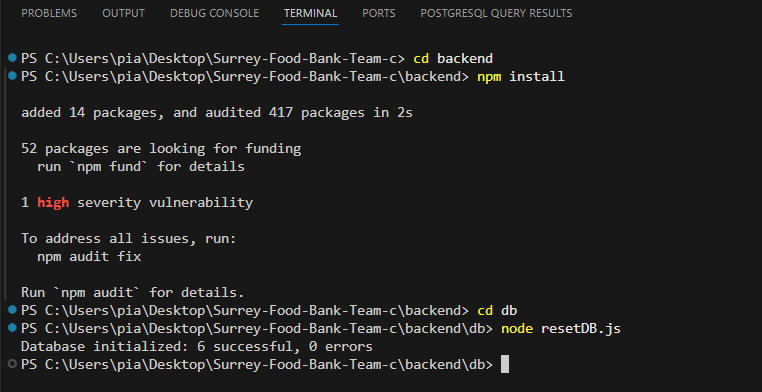
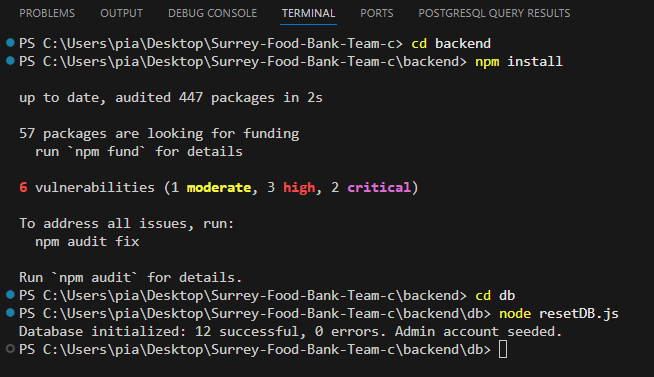
Removed unused files, removed console.log and commented code, and updated README images

diff --git a/frontend/src/components/bookingForm.jsx b/frontend/src/components/bookingForm.jsx
@@ -60,7 +60,6 @@ export function BookingForm({ opened, onClose, onSubmit, onDeleteBooking, onDele
       return dayjs(values.start).isSame(dayjs(appt.appt_date), 'day') &&
         dayjs(appt.start_time, "HH:mm").format('HH:mm') === dayjs(values.start).format('HH:mm');
     });
-    // console.log(booking);
     return booking;
   };
 
@@ -69,7 +68,6 @@ export function BookingForm({ opened, onClose, onSubmit, onDeleteBooking, onDele
     try {
       const booking = await fetchBooking(clientUsername);
       const notes = booking.length > 0 ? (booking[0].booking_notes === null ? "No additional notes for this appointment." : booking[0].booking_notes) : "No additional notes for this appointment.";
-      // console.log("check1", booking);
       setClientNotes(notes);
     } catch (error) {
       console.error('Error fetching notes for client:', error);
@@ -81,7 +79,6 @@ export function BookingForm({ opened, onClose, onSubmit, onDeleteBooking, onDele
   const fetchBookingStatus = async (clientUsername) => {
     try {
       const booking = await fetchBooking(clientUsername);
-      // console.log(booking);
       const status = booking.length > 0 ? booking[0].booking_status : BOOKING_STATUS.DID_NOT_SHOW;
       return status;
     }
@@ -106,7 +103,6 @@ export function BookingForm({ opened, onClose, onSubmit, onDeleteBooking, onDele
 
   const handleUpdateNotes = async () => {
     try {
-      // console.log("check3", clientNotes);
       const res = await updateBookingNotes(token, dayjs(form.values.start).format('YYYY-MM-DD'), dayjs(form.values.start).format('HH:mm'), selectedClient, clientNotes);
       if (res && !res.error) {
         notifications.show({
@@ -163,8 +159,6 @@ export function BookingForm({ opened, onClose, onSubmit, onDeleteBooking, onDele
       const statuses = await Promise.all(
         bookedUsers.map(async (user) => [user, await fetchBookingStatus(user)])
       );
-
-      // console.log(statuses);
 
       setBookingStatuses(Object.fromEntries(statuses));
     };
@@ -326,7 +320,6 @@ export function BookingForm({ opened, onClose, onSubmit, onDeleteBooking, onDele
         <Tabs defaultValue="client-info" onChange={(value) => {
           if (value === 'appt-notes') {
             fetchNotesForClient(selectedClient);
-            // console.log(clientNotes);
           }
         }}>
           <Tabs.List>

diff --git a/frontend/src/pages/clientDashboard.jsx b/frontend/src/pages/clientDashboard.jsx
@@ -514,7 +514,6 @@ export default function ClientDashboard() {
             dayjs(modalCurrentMonth).endOf('month').format('YYYY-MM-DD')
         );
         setModalAllTimeslots(timeslots);
-        // console.log("check2");
     };
 
     const openStackPage = (page) => {
@@ -537,7 +536,6 @@ export default function ClientDashboard() {
         };
 
         checkTinyBundles().then(result => {
-            // console.log("check ", result.baby_or_pregnant);
             if (result.baby_or_pregnant) {
                 setTinyBundles(true);
             }
@@ -550,7 +548,6 @@ export default function ClientDashboard() {
         const fetchTimeslots = async () => {
             const timeslots = await getAppointmentsInDateRange(token, dayjs(currentMonth).startOf('month').format('YYYY-MM-DD'), dayjs(currentMonth).endOf('month').format('YYYY-MM-DD'));
             setAllTimeslots(timeslots);
-            // console.log("check1 ");
         };
 
         fetchTimeslots();

diff --git a/frontend/src/components/AccountInformationTab.jsx b/frontend/src/components/AccountInformationTab.jsx
@@ -127,7 +127,6 @@ export default function AccountInformationTab({ clientUsername }) {
         const ownerTemp = familyMembers.filter(member => member.relationship === 'owner');
         const owner = ownerTemp[0];
         const address = splitAddress(result.addr);
-        // TODO: Rewrite (better practices)
         if (result && owner) {
             setOwnerId(owner.id);
             form.setValues({

diff --git a/frontend/src/components/FamilyMembersTab.jsx b/frontend/src/components/FamilyMembersTab.jsx
@@ -172,7 +172,6 @@ export default function FamilyMembersTab({ clientUsername }) {
         email: member.email.trim().length > 0 ? member.email.trim() : null,
         relationship: member.relationship
       };
-      // console.log(memberData);
       try {
         const result = await updateFamilyMember(token, clientUsername, currentMember.id, memberData);
         await getFamilyMembersInformation();

diff --git a/frontend/src/components/logoHome.jsx b/frontend/src/components/logoHome.jsx
@@ -19,7 +19,6 @@ export default function LogoHome() {
             <a key={link.label} href={link.link} className={styles.link} onClick={async (event) => {
                 event.preventDefault();
                 const role = await getRole();
-                // console.log(role);
 
                 if (role === 'admin') {
                     navigate('/adminDashboard');

diff --git a/frontend/src/components/timeslotForm.jsx b/frontend/src/components/timeslotForm.jsx
@@ -53,8 +53,6 @@ export function TimeslotForm({ opened, onClose, onSubmit, onDelete, values, ...o
   }, [values]);
 
   const handleSubmit = () => {
-    // console.log(form.values.start, form.values.end);
-    // console.log(timeslotDates);
     onSubmit({
       dates: timeslotDates,
       start: form.values.start,

diff --git a/README.md b/README.md
@@ -94,7 +94,7 @@ We recommend using the latest versions and cannot guarantee functionality on old
 
 5. Run the setup script: `node resetDB.js`.
 
-    This message will print to console if successful: `Database initialized: 6 successful, 0 errors`.
+    This message will print to console if successful: `Database initialized: 12 successful, 0 errors. Admin account seeded.`.
 
     Example:
     ![DB init example](/setup-images/vscode1.png)
@@ -229,6 +229,7 @@ For additional details, please refer to the sampleDB.ts script.
 Admin Account
 - Username: admin
 - Password: adminPassword#123
+Note: The admin account is created by the resetDB.js script.
 
 Client Account with 5 Family Members
 - Username: jane123
